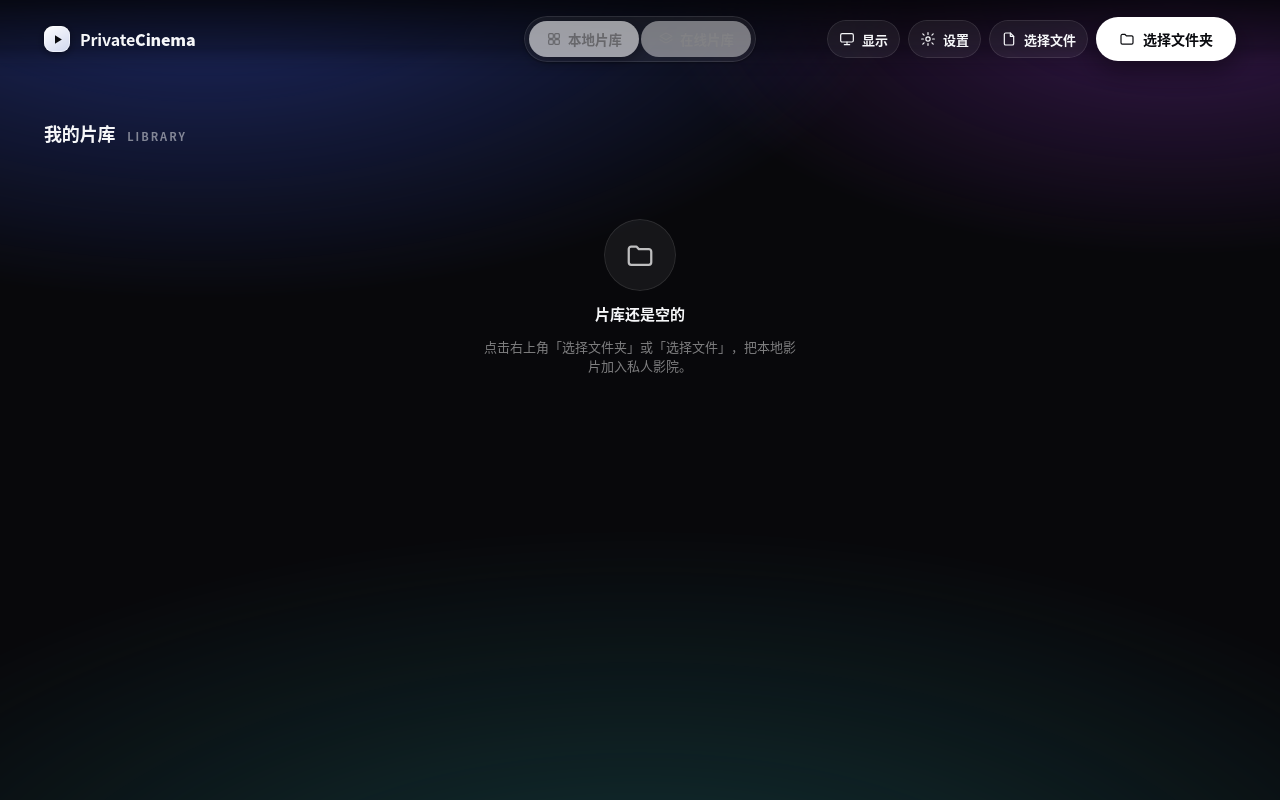
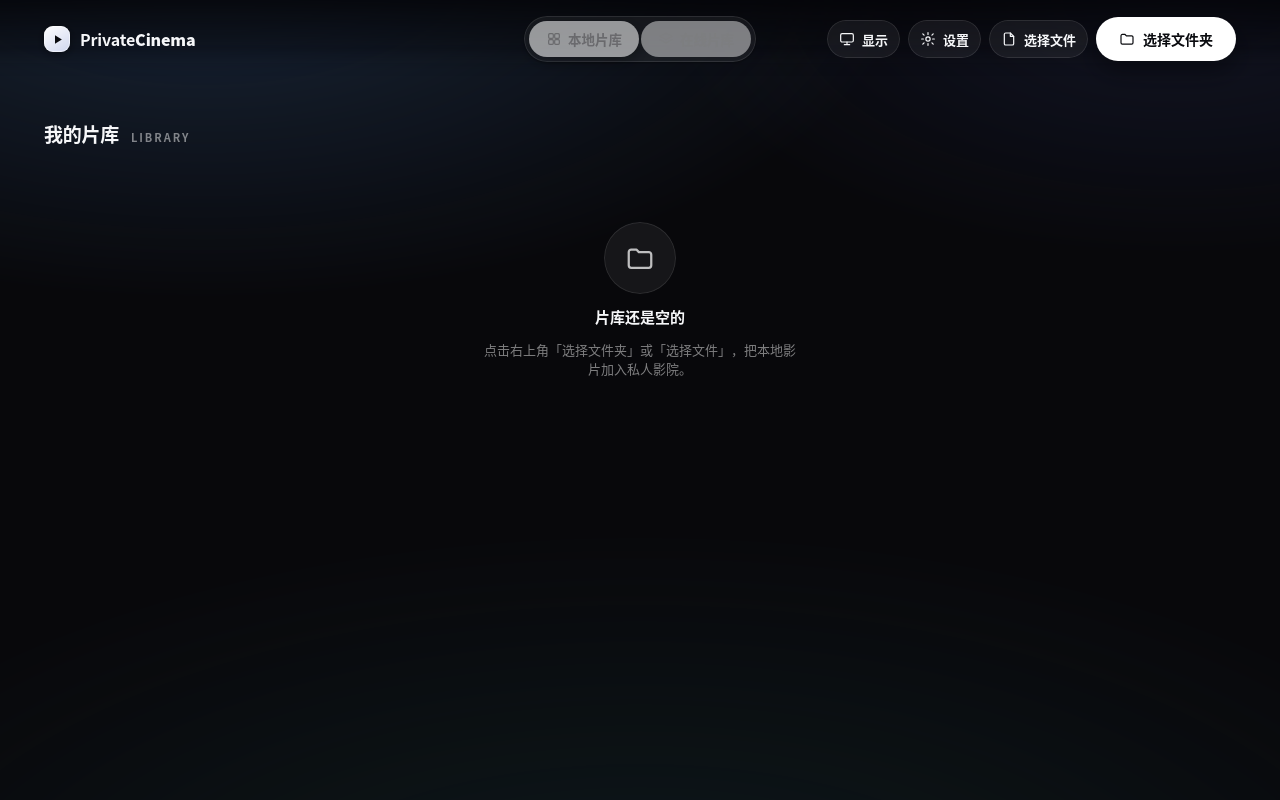
feat(desktop): 统一配色与详情弹层对比度修复；新增应用图标（场记板）
- 配色：palette 收窄环境光/封面/弹层色相到冷色窄区间并降饱和，浅色主题底改中性灰、Hero/弹层改低饱和渐变
- 详情弹层：backdropGradient 改下发色相变量，CSS 深浅两套渐变，修复浅色下深底深字看不清；补 :focus-visible 焦点环与分区间距
- 图标：新增 resources/icon.png（场记板），mygo.config icon 接入打包；main.go go:embed + win.SetIcon 设窗口图标
- 文档/门禁：更新 refactor 文档；mygo-smoke [PASS]

diff --git a/desktop/src/styles.css b/desktop/src/styles.css
@@ -49,6 +49,16 @@
   box-sizing: border-box;
 }
 
+/* 键盘可达：统一焦点环，避免只靠 hover 才看得出当前元素 */
+:focus-visible {
+  outline: 2px solid var(--accent);
+  outline-offset: 2px;
+}
+button:focus-visible,
+input:focus-visible {
+  border-radius: 10px;
+}
+
 html,
 body,
 #root {
@@ -386,8 +396,8 @@ select {
   border-radius: 0;
   border: none;
   background:
-    linear-gradient(180deg, rgba(255, 255, 255, 0.045), transparent 40%),
-    linear-gradient(160deg, hsl(var(--hue, 250), 30%, 16%), #0a0a0e 80%);
+    linear-gradient(180deg, rgba(255, 255, 255, 0.04), transparent 40%),
+    linear-gradient(160deg, hsl(var(--hue, 228), 26%, 15%), #0a0a0e 80%);
 }
 
 /* 环境光叠层：两团同色光把整幅色调收拢到封面主色 */
@@ -399,8 +409,8 @@ select {
   background:
     radial-gradient(46% 60% at 24% 34%, var(--glow-1, hsla(250, 55%, 44%, 0.5)), transparent 70%),
     radial-gradient(30% 40% at 84% 10%, var(--glow-2, hsla(290, 52%, 32%, 0.4)), transparent 70%);
-  filter: blur(8px);
-  opacity: 0.9;
+  filter: blur(10px);
+  opacity: 0.62;
   pointer-events: none;
 }
 
@@ -644,13 +654,13 @@ select {
   display: flex;
   align-items: baseline;
   gap: 12px;
-  margin-bottom: 16px;
+  margin-bottom: 18px;
 }
 .section-title {
   margin: 0;
-  font-size: 18px;
+  font-size: 19px;
   font-weight: 700;
-  letter-spacing: -0.01em;
+  letter-spacing: -0.015em;
   color: var(--text);
 }
 .section-en {
@@ -1299,6 +1309,11 @@ select {
   border-radius: var(--r-2xl);
   border: 1px solid var(--hairline-strong);
   box-shadow: var(--shadow-pop);
+  /* 底色由 --detail-hue 驱动，深浅主题在下方各自覆盖；不再由 JS 内联深色渐变写死 */
+  background:
+    radial-gradient(120% 130% at 18% 0%, hsla(var(--detail-hue, 250), 60%, 40%, 0.55), transparent 60%),
+    radial-gradient(90% 90% at 92% 6%, hsla(var(--detail-hue-2, 300), 58%, 32%, 0.42), transparent 55%),
+    linear-gradient(180deg, hsl(var(--detail-hue, 250), 34%, 12%), #08080b 82%);
   animation: modal-rise 0.24s cubic-bezier(0.2, 0.8, 0.2, 1);
 }
 
@@ -2180,8 +2195,8 @@ select {
 
 /* ==================== 浅色主题 ==================== */
 :root[data-theme='light'] {
-  --bg: #eef0f4;
-  --bg-soft: #e7e9ef;
+  --bg: #f2f3f6;
+  --bg-soft: #e9eaef;
 
   --glass: rgba(10, 12, 20, 0.045);
   --glass-strong: rgba(10, 12, 20, 0.08);
@@ -2211,26 +2226,26 @@ select {
 
 :root[data-theme='light'] .ambient {
   background:
-    radial-gradient(90% 70% at 16% -6%, hsla(var(--hue, 250), 70%, 78%, 0.7), transparent 62%),
-    radial-gradient(70% 55% at 92% 0%, hsla(var(--hue, 250), 60%, 82%, 0.55), transparent 58%),
+    radial-gradient(90% 70% at 16% -6%, hsla(var(--hue, 228), 40%, 88%, 0.55), transparent 60%),
+    radial-gradient(70% 55% at 92% 0%, hsla(var(--hue, 228), 36%, 91%, 0.45), transparent 56%),
     var(--bg);
 }
 
 :root[data-theme='light'] .topbar-bg {
-  background: linear-gradient(180deg, rgba(238, 240, 244, 0.9), rgba(238, 240, 244, 0.5) 62%, transparent);
+  background: linear-gradient(180deg, rgba(242, 243, 246, 0.92), rgba(242, 243, 246, 0.55) 62%, transparent);
 }
 
 :root[data-theme='light'] .hero {
   background:
-    linear-gradient(180deg, rgba(255, 255, 255, 0.5), transparent 42%),
-    linear-gradient(160deg, hsl(var(--hue, 250), 58%, 88%), #f4f5f8 78%);
+    linear-gradient(180deg, rgba(255, 255, 255, 0.55), transparent 42%),
+    linear-gradient(160deg, hsl(var(--hue, 228), 30%, 93%), #f4f5f8 78%);
   border-color: rgba(20, 24, 34, 0.08);
 }
 :root[data-theme='light'] .hero::after {
   background: linear-gradient(180deg, transparent, rgba(244, 245, 248, 0.7));
 }
 :root[data-theme='light'] .hero::before {
-  opacity: 0.5;
+  opacity: 0.38;
 }
 :root[data-theme='light'] .hero-title,
 :root[data-theme='light'] .detail-title {
@@ -2261,7 +2276,10 @@ select {
   background: rgba(18, 22, 32, 0.42);
 }
 :root[data-theme='light'] .detail-modal {
-  background: #f6f7fa;
+  background:
+    radial-gradient(120% 130% at 16% 0%, hsla(var(--detail-hue, 228), 36%, 93%, 0.8), transparent 62%),
+    radial-gradient(90% 90% at 92% 4%, hsla(var(--detail-hue-2, 260), 32%, 94%, 0.7), transparent 58%),
+    linear-gradient(180deg, #fcfcfe, #eef0f4 82%);
 }
 :root[data-theme='light'] .library-error {
   color: var(--danger);

diff --git a/desktop/src/ui/palette.ts b/desktop/src/ui/palette.ts
@@ -1,8 +1,8 @@
 // ==================== 封面色板 ====================
 // 参考 cezzu 的 CoverColorPalette：整页底色由「当前主推内容」的封面色相驱动，
 // 后续的玻璃表面都是白色透明叠色，所以只需要给出一个色相 h。
-// 本地片源没有真实海报，按标题稳定散列出一个色相；在线片源有真实海报时
-// 仍以海报为主，这里只作为环境光兜底。
+// 关键约束：所有大面积底色（整页环境光 / Hero / 详情弹层）的色相都收进一个窄的
+// 冷色区间（蓝—靛），避免随着轮播/标题散列在粉、绿、黄之间乱跳，造成「配色不协调」。
 
 import type { CSSProperties } from 'react'
 
@@ -13,32 +13,42 @@ export function hueOf(seed: string): number {
   return (hue + 210) % 360
 }
 
-/** 整页环境光变量（用于 app-shell 的 CSS 自定义属性）。 */
+/**
+ * 把标题散列出的色相收进一个窄的冷色区间（默认 214°–260°，蓝到靛）。
+ * 这样即便 Hero 每 6.5s 轮播换片，整屏色温也只在很小的范围里微动，不会忽然变粉变绿。
+ */
+function coolHue(seed: string, lo = 214, span = 46): number {
+  return lo + (hueOf(seed) % span)
+}
+
+/** 整页环境光：克制的冷调辉光，低饱和、低透明，深浅主题都靠它统一基调。 */
 export function ambientVars(seed: string): CSSProperties {
-  const h = hueOf(seed)
+  const h = coolHue(seed)
   return {
-    '--glow-1': `hsla(${h}, 58%, 46%, 0.55)`,
-    '--glow-2': `hsla(${(h + 46) % 360}, 56%, 34%, 0.5)`,
-    '--glow-3': `hsla(${(h + 312) % 360}, 52%, 22%, 0.6)`,
+    '--glow-1': `hsla(${h}, 44%, 44%, 0.30)`,
+    '--glow-2': `hsla(${(h + 16) % 360}, 42%, 32%, 0.24)`,
+    '--glow-3': `hsla(${(h + 332) % 360}, 40%, 18%, 0.34)`,
     '--hue': String(h),
   } as CSSProperties
 }
 
-/** 无海报时的封面渐变（monogram 底）。 */
+/** 无海报时的封面渐变（monogram 底），色相同样收进冷色区间，整体不跑荧光色。 */
 export function posterGradient(seed: string): CSSProperties {
-  const h = hueOf(seed)
+  const h = coolHue(seed, 206, 76)
   return {
-    background: `linear-gradient(150deg, hsl(${h}, 44%, 42%) 0%, hsl(${(h + 34) % 360}, 46%, 24%) 46%, hsl(${(h + 300) % 360}, 42%, 12%) 100%)`,
+    background: `linear-gradient(150deg, hsl(${h}, 40%, 40%) 0%, hsl(${(h + 30) % 360}, 42%, 23%) 46%, hsl(${(h + 302) % 360}, 38%, 12%) 100%)`,
   }
 }
 
-/** 详情页大背景用的柔和同色渐变。 */
+/**
+ * 详情弹层的主题化底色：只下发色相变量，具体渐变交给 CSS 按当前主题（深/浅）生成。
+ * 早前这里直接返回一段深色渐变，会以内联样式盖掉浅色主题的浅底，
+ * 结果「深底 + 深字」把简介和选集全糊住，看不清。改用变量后深浅两套都能自适应。
+ */
 export function backdropGradient(seed: string): CSSProperties {
-  const h = hueOf(seed)
+  const h = coolHue(seed)
   return {
-    background:
-      `radial-gradient(120% 130% at 18% 0%, hsla(${h}, 60%, 40%, 0.55), transparent 60%),` +
-      `radial-gradient(90% 90% at 92% 6%, hsla(${(h + 50) % 360}, 58%, 32%, 0.42), transparent 55%),` +
-      `linear-gradient(180deg, hsl(${h}, 34%, 12%), #08080b 82%)`,
-  }
+    '--detail-hue': String(h),
+    '--detail-hue-2': String((h + 40) % 360),
+  } as CSSProperties
 }

diff --git a/desktop/mygo.config.ts b/desktop/mygo.config.ts
@@ -12,6 +12,8 @@ export default defineConfig({
   frontendDist: "dist",
   bindings: "src/mygo.ts",
   out: "build",
+  // 应用图标（正方形 1024）：打包进桌面入口、任务栏/窗口图标与 deb/rpm。
+  icon: "resources/icon.png",
   // 签名更新：mygo.Updater 用这个公钥校验更新包。私钥（mygo-update.key）不入库，
   // 放在发布机的 ~/.config/mygo/update-keys/ 或 CI 的 MYGO_UPDATER_PRIVATE_KEY。
   // `mygo build` 会按 github 的 release 约定产出并（加 -upload 时）上传签名更新。

diff --git a/desktop/main.go b/desktop/main.go
@@ -9,12 +9,18 @@ package main
 //   windows/ 与 linux/ 两套壳   →  合并为这一套（mygo 纯 Go，跨平台构建）
 
 import (
+	_ "embed"
 	"log"
 	"os"
 	"path/filepath"
 
 	"github.com/egoist/mygo"
 )
+
+// 应用图标：打包时内嵌，运行时再用 SetIcon 设成窗口图标（标题栏 + 任务栏/停靠栏）。
+//
+//go:embed resources/icon.png
+var appIcon []byte
 
 func envOr(key, fallback string) string {
 	if v := os.Getenv(key); v != "" {
@@ -50,7 +56,7 @@ func main() {
 		configureUpdate(userData)
 
 		// 3) 主窗口。
-		mygo.NewWindow(mygo.WindowOptions{
+		win := mygo.NewWindow(mygo.WindowOptions{
 			Title:           "私人影院",
 			URL:             "/",
 			Width:           1280,
@@ -61,6 +67,10 @@ func main() {
 			AutoHideMenuBar: true,
 			StateKey:        "main",
 		})
+		// 窗口自己的图标（GTK 的 _NET_WM_ICON → 标题栏/任务栏），避免显示成通用空白图标。
+		if err := win.SetIcon(appIcon); err != nil {
+			log.Printf("设置窗口图标失败: %v", err)
+		}
 
 		// 4) 启动后按偏好做一次静默自动更新检查（仅正式构建生效）。
 		go autoUpdateOnStart()

diff --git a/docs/2026-11-13-mygo-refactor.md b/docs/2026-11-13-mygo-refactor.md
@@ -315,6 +315,36 @@ GTK 对话框也不在 mygo 的窗口树里）。为此加了一条**仅 e2e 构
 
 **已知遗留**：**搜索结果列表**的卡片封面仍为占位——上游 SDK 的搜索解析器（`ParseSearchTab` 的 `video_detail` 主分支）没有把 `cover` 拷进 `SeriesSummary`（`video_detail` 的 `cards` 分支才有）。首页/详情不受影响。可选后续：给 `openhongguo` 提 PR 补该字段，或前端按需用详情补图（会额外耗额度，暂不做）。
 
+### 12.3 详情弹层浅色主题对比度修复（2026-11-13）
+
+**现象**：浅色主题下打开在线（红果）/本地详情弹层，简介与「选集」按钮几乎看不清——深色渐变底 + 深色文字。
+
+**根因**：`palette.ts` 的 `backdropGradient()` 直接返回一段**深色** `background` 作为内联样式，内联优先级高于 `:root[data-theme='light'] .detail-modal { background:#f6f7fa }`，于是浅色主题下弹层仍是深底；而文字沿用 `--text-*` 主题变量，在浅色主题下是深色 → 深底深字。
+
+**修复**：
+- `backdropGradient()` 改为只下发 `--detail-hue` / `--detail-hue-2` 两个色相变量，不再写死背景。
+- CSS：`.detail-modal` 用变量定义深色渐变默认值；`:root[data-theme='light'] .detail-modal` 定义同色相的浅色渐变（原 `#f6f7fa` 平底升级为同色相径向渐变）。
+- 深浅主题共用同一套 `--text-*` 变量，天然自适应，无需再按主题硬编码文字色。
+
+**验证**：浅色详情弹层实测 `detail-summary` 为 `rgba(20,22,28,0.68)`（深字）+ 浅底，选集网格可读；深色主题回归正常；`mygo-smoke` `[PASS]`。截图见 [docs/fix-2026-11-13/](fix-2026-11-13/)。
+
+### 12.4 配色统一 + 应用图标（2026-11-13）
+
+**现象**：浅色主题整页偏粉/紫，Hero 又随轮播在绿/蓝/粉间跳，配色不协调；窗口/任务栏没有应用图标。
+
+**配色**：
+- `palette.ts` 新增 `coolHue()`，把所有大面积底色（整页环境光 / 无海报封面 / 详情弹层）的色相收进冷色窄区间（≈214°–260°），轮播换片也只在很小的色温范围微动。
+- `ambientVars()` 环境光降饱和、降透明（0.55→0.30 量级），不再整屏泛色。
+- 浅色主题：`--bg` 改中性灰 `#f2f3f6`，`.ambient` 改低饱和冷光，`.hero` 改低饱和同色相浅渐变，`.detail-modal` 浅底改低饱和近白渐变。
+- 深色主题：Hero 底色降饱和，`::before` 环境光透明度 0.9→0.62，整体更沉。
+- 细节：新增统一 `:focus-visible` 焦点环；分区间距/标题字号微调（`section-title` 19px）。
+
+**图标**：
+- 新增 `resources/icon.png`（1024×1024，深墨色圆角方块 + 斜置胶片条 + 白色播放键，柔和投影；SVG 经 Inkscape 渲染，小尺寸仍清晰），在 `mygo.config.ts` 用 `icon` 接入打包（deb/rpm 与桌面入口都带图标）。
+- `main.go` 用 `//go:embed resources/icon.png` 内嵌，并在建窗后 `win.SetIcon(appIcon)` 设窗口图标（GTK → WM_HINTS，标题栏/任务栏可见）。
+
+**验证**：`mygo-smoke` `[PASS]`；窗口 `WM_HINTS` 已带 icon pixmap；浅/深主题与详情截图见 [docs/fix-2026-11-13/ui-*.png](fix-2026-11-13/)。
+
 ## 13. 自动构建与发布（GitHub Actions）
 
 新增 `.github/workflows/release-desktop.yml`：**打 `v*` tag（或 Actions 手动触发）即自动出包并发 Release**。
